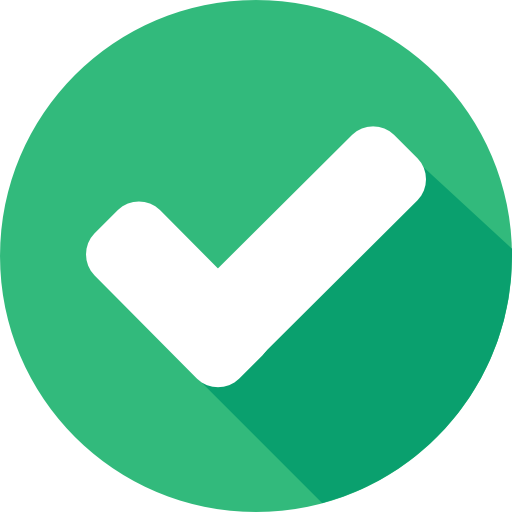
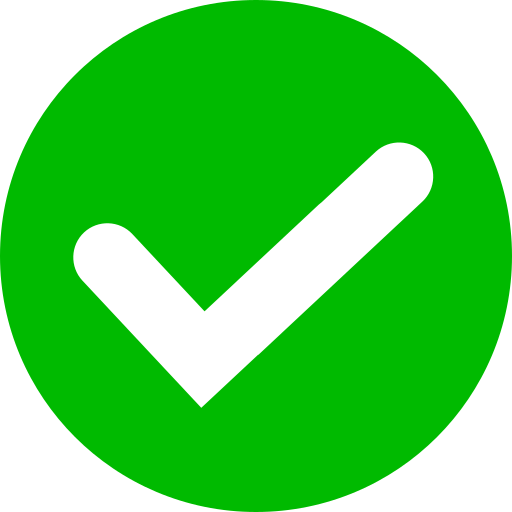
add notification field. Announce successful adding product to cart

diff --git a/src/components/notifications/AddProductNotification/AddProductNotification.jsx b/src/components/notifications/AddProductNotification/AddProductNotification.jsx
@@ -1,0 +1,37 @@
+import { Button } from "antd";
+import { Link, useParams } from "react-router-dom";
+import { useSelector } from "react-redux";
+import { productListSelector } from "../../../redux/selectors.jsx";
+
+import "./AddProductNotification.css";
+
+const AddProductNotification = () => {
+  const { id } = useParams();
+  const productList = useSelector(productListSelector);
+  const product = useSelector(() => {
+    return productList.find((item) => item.id === Number(id));
+  });
+  // console.log("In AddProductNotification.jsx, product = ", product);
+
+  return (
+    <div className="success-notification-view">
+      <div className="success-notification-container">
+        <div className="success-notification-content">
+          {`The product \"${product.title}\" has been added to your cart!`}
+        </div>
+        <img
+          className="success-notification-image"
+          src="/src/images/succeeded.png"
+        />
+        <Link
+          to={`/product-detail/${id}`}
+          className="success-notification-OK-button-link"
+        >
+          <Button className="success-notification-OK-button">OK</Button>
+        </Link>
+      </div>
+    </div>
+  );
+};
+
+export default AddProductNotification;

diff --git a/src/components/ProductDetail/ProductDetail.jsx b/src/components/ProductDetail/ProductDetail.jsx
@@ -1,4 +1,4 @@
-import { useParams } from "react-router-dom";
+import { useParams, Link } from "react-router-dom";
 import { useSelector, useDispatch } from "react-redux";
 import { productListSelector } from "../../redux/selectors.jsx";
 import { FaStar } from "react-icons/fa";
@@ -52,12 +52,17 @@ const ProductDetail = () => {
             <div className="product-detail-count">
               <strong>Count:</strong> {` ${product.rating.count}`}
             </div>
-            <button
-              className="product-detail-add-button"
-              onClick={handleAddButtonClick}
+            <Link
+              to={`/product-detail/${product.id}/add-product-success-notification`}
+              className="product-detail-add-button-link"
             >
-              Add to cart
-            </button>
+              <button
+                className="product-detail-add-button"
+                onClick={handleAddButtonClick}
+              >
+                Add to cart
+              </button>
+            </Link>
           </div>
         </div>
       </div>

diff --git a/src/components/notifications/AddProductNotification/AddProductNotification.css b/src/components/notifications/AddProductNotification/AddProductNotification.css
@@ -1,0 +1,44 @@
+.success-notification-view {
+  width: 100vw;
+  height: 100vh;
+  background-color: rgb(225, 225, 225);
+  display: flex;
+  justify-content: center;
+  align-items: center;
+}
+
+.success-notification-container {
+  width: 50%;
+  height: 50%;
+  background-color: white;
+  display: flex;
+  flex-direction: column;
+  justify-content: center;
+  align-items: center;
+  /* align-content: space-around; */
+  font-weight: 700;
+  border-radius: 20px;
+}
+
+.success-notification-content {
+  width: 80%;
+  height: 30%;
+  display: flex;
+  align-items: center;
+  text-align: center;
+}
+
+.success-notification-image {
+  height: 40%;
+  object-fit: contain;
+}
+
+.success-notification-OK-button-link {
+  flex-grow: 1;
+  display: flex;
+  align-items: center;
+}
+
+.success-notification-OK-button {
+  width: 100px;
+}

diff --git a/src/App.jsx b/src/App.jsx
@@ -4,6 +4,7 @@ import "./App.css";
 import CartPage from "./pages/CartPage/CartPage.jsx";
 import HomePage from "./pages/HomePage/HomePage.jsx";
 import ProductDetailPage from "./pages/ProductDetailPage/ProductDetailPage.jsx";
+import AddProductNotification from "./components/notifications/AddProductNotification/AddProductNotification.jsx";
 
 const App = () => {
   return (
@@ -12,6 +13,10 @@ const App = () => {
         <Route path="/" element={<HomePage />} />
         <Route path="/cart" element={<CartPage />} />
         <Route path="/product-detail/:id" element={<ProductDetailPage />} />
+        <Route
+          path="product-detail/:id/add-product-success-notification"
+          element={<AddProductNotification />}
+        />
       </Routes>
     </>
   );

diff --git a/src/components/ProductInCart/ProductInCart.css b/src/components/ProductInCart/ProductInCart.css
@@ -17,6 +17,7 @@
 
 .product-in-cart-image {
   width: 100%;
+  height: 100%;
   object-fit: contain;
 }
 
